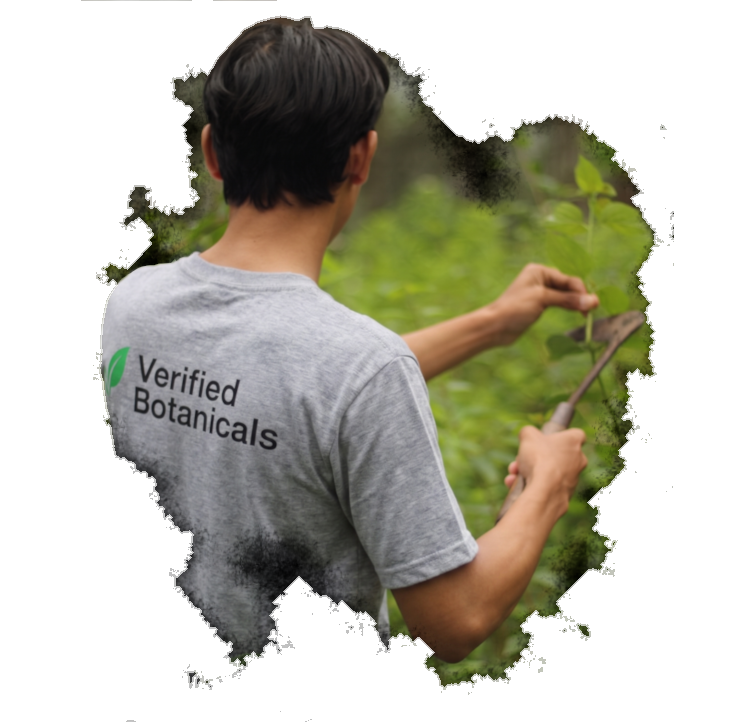
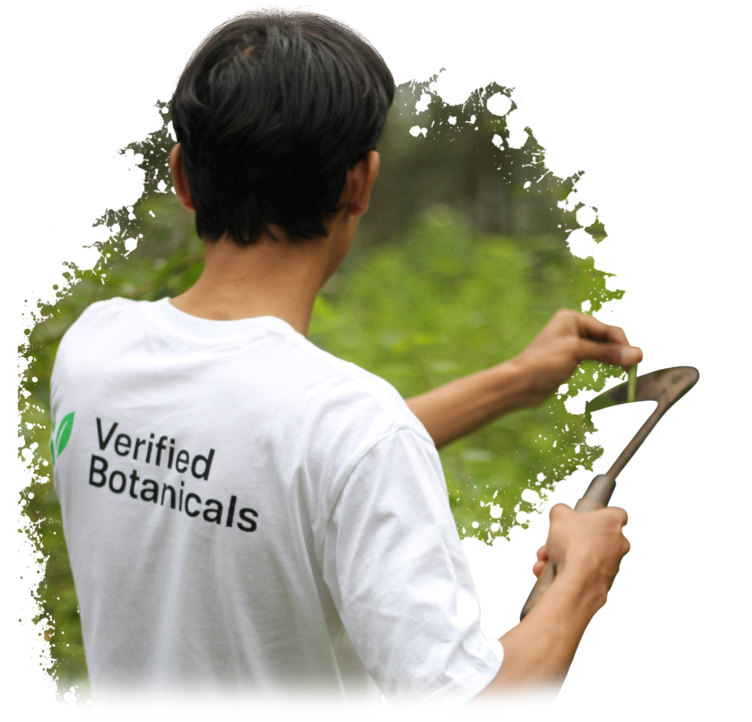
working on the tax calculations and updated the footer

diff --git a/app/code/Local/CanadaTaxSetup/Setup/Patch/Data/UpdateNovaScotiaHstRate20250401.php b/app/code/Local/CanadaTaxSetup/Setup/Patch/Data/UpdateNovaScotiaHstRate20250401.php
@@ -1,0 +1,68 @@
+<?php
+declare(strict_types=1);
+
+namespace Local\CanadaTaxSetup\Setup\Patch\Data;
+
+use Magento\Directory\Model\RegionFactory;
+use Magento\Framework\Setup\ModuleDataSetupInterface;
+use Magento\Framework\Setup\Patch\DataPatchInterface;
+
+class UpdateNovaScotiaHstRate20250401 implements DataPatchInterface
+{
+    private const TARGET_REGION_CODE = 'NS';
+    private const NEW_RATE = 14.0000;
+
+    public function __construct(
+        private readonly ModuleDataSetupInterface $moduleDataSetup,
+        private readonly RegionFactory $regionFactory
+    ) {
+    }
+
+    public function apply(): void
+    {
+        $connection = $this->moduleDataSetup->getConnection();
+        $connection->startSetup();
+
+        try {
+            $region = $this->regionFactory->create();
+            $region->loadByCode(self::TARGET_REGION_CODE, 'CA');
+            $regionId = (int)$region->getRegionId();
+            if ($regionId <= 0) {
+                throw new \RuntimeException('Unable to resolve CA region_id for Nova Scotia (NS)');
+            }
+
+            $table = $this->moduleDataSetup->getTable('tax_calculation_rate');
+
+            $rateIds = $connection->fetchCol(
+                sprintf(
+                    'SELECT tax_calculation_rate_id FROM %s WHERE tax_country_id = ? AND tax_region_id = ? AND tax_postcode = ?',
+                    $table
+                ),
+                ['CA', $regionId, '*']
+            );
+
+            foreach ($rateIds as $rateId) {
+                $connection->update(
+                    $table,
+                    ['rate' => self::NEW_RATE],
+                    ['tax_calculation_rate_id = ?' => (int)$rateId]
+                );
+            }
+        } finally {
+            $connection->endSetup();
+        }
+    }
+
+    public static function getDependencies(): array
+    {
+        return [
+            InstallCanadaTaxConfiguration::class,
+        ];
+    }
+
+    public function getAliases(): array
+    {
+        return [];
+    }
+}
+

diff --git a/app/code/Local/RotatingSpecialDeals/Setup/Patch/Data/UpdateFooterShippingHours.php b/app/code/Local/RotatingSpecialDeals/Setup/Patch/Data/UpdateFooterShippingHours.php
@@ -1,0 +1,65 @@
+<?php
+declare(strict_types=1);
+
+namespace Local\RotatingSpecialDeals\Setup\Patch\Data;
+
+use Magento\Framework\Setup\ModuleDataSetupInterface;
+use Magento\Framework\Setup\Patch\DataPatchInterface;
+
+class UpdateFooterShippingHours implements DataPatchInterface
+{
+    public function __construct(
+        private readonly ModuleDataSetupInterface $moduleDataSetup
+    ) {
+    }
+
+    public function apply(): void
+    {
+        $connection = $this->moduleDataSetup->getConnection();
+        $connection->startSetup();
+
+        try {
+            $cmsBlockTable = $this->moduleDataSetup->getTable('cms_block');
+
+            $connection->query(
+                sprintf(
+                    'UPDATE %s SET content = REPLACE(content, ?, ?) WHERE identifier = ?',
+                    $cmsBlockTable
+                ),
+                [
+                    '{{trans "Working Hours"}}',
+                    '{{trans "Shipping Hours"}}',
+                    'footer-29-content',
+                ]
+            );
+
+            $saturdayLine = '&lt;li&gt;&lt;a href="#"&gt;{{trans "Saturday - Sunday   (Closed)"}}&lt;/a&gt;&lt;/li&gt;';
+            $easternLine = "\n" . '&lt;li&gt;&lt;a href="#"&gt;{{trans "(Eastern Time Zone)"}}&lt;/a&gt;&lt;/li&gt;';
+
+            $connection->query(
+                sprintf(
+                    'UPDATE %s SET content = REPLACE(content, ?, ?) WHERE identifier = ? AND content NOT LIKE ?',
+                    $cmsBlockTable
+                ),
+                [
+                    $saturdayLine,
+                    $saturdayLine . $easternLine,
+                    'footer-29-content',
+                    '%Eastern Time Zone%',
+                ]
+            );
+        } finally {
+            $connection->endSetup();
+        }
+    }
+
+    public static function getDependencies(): array
+    {
+        return [];
+    }
+
+    public function getAliases(): array
+    {
+        return [];
+    }
+}

diff --git a/dev/tools/check_tax_rate_nova_scotia.php b/dev/tools/check_tax_rate_nova_scotia.php
@@ -1,0 +1,45 @@
+<?php
+
+declare(strict_types=1);
+
+use Magento\Directory\Model\RegionFactory;
+use Magento\Framework\App\Bootstrap;
+use Magento\Framework\App\ResourceConnection;
+
+require __DIR__ . '/../../app/bootstrap.php';
+
+$bootstrap = Bootstrap::create(BP, $_SERVER);
+$objectManager = $bootstrap->getObjectManager();
+
+/** @var RegionFactory $regionFactory */
+$regionFactory = $objectManager->get(RegionFactory::class);
+
+$region = $regionFactory->create();
+$region->loadByCode('NS', 'CA');
+$regionId = (int)$region->getRegionId();
+if ($regionId <= 0) {
+    fwrite(STDERR, "Unable to resolve CA region_id for Nova Scotia (NS)\n");
+    exit(2);
+}
+
+/** @var ResourceConnection $resource */
+$resource = $objectManager->get(ResourceConnection::class);
+$connection = $resource->getConnection();
+$table = $resource->getTableName('tax_calculation_rate');
+
+$rows = $connection->fetchAll(
+    sprintf('SELECT tax_calculation_rate_id, code, rate FROM %s WHERE tax_country_id = ? AND tax_region_id = ? AND tax_postcode = ? ORDER BY tax_calculation_rate_id', $table),
+    ['CA', $regionId, '*']
+);
+
+$amount = (float)($argv[1] ?? 22.99);
+
+fwrite(STDOUT, sprintf("Nova Scotia rates (region_id=%d):\n", $regionId));
+foreach ($rows as $row) {
+    $rate = (float)$row['rate'];
+    $tax = $amount * ($rate / 100.0);
+    fwrite(STDOUT, sprintf("- %s: %.4f%% (tax on %.2f => %.2f)\n", (string)$row['code'], $rate, $amount, $tax));
+}
+
+exit(0);
+

diff --git a/app/code/Local/CanadaTaxSetup/Setup/Patch/Data/InstallCanadaTaxConfiguration.php b/app/code/Local/CanadaTaxSetup/Setup/Patch/Data/InstallCanadaTaxConfiguration.php
@@ -303,7 +303,7 @@ class InstallCanadaTaxConfiguration implements DataPatchInterface
             ['code' => 'CA-NB-HST', 'region_code' => 'NB', 'title' => 'HST', 'rate' => 15.0000],
             ['code' => 'CA-NL-HST', 'region_code' => 'NL', 'title' => 'HST', 'rate' => 15.0000],
             ['code' => 'CA-NT-GST', 'region_code' => 'NT', 'title' => 'GST', 'rate' => 5.0000],
-            ['code' => 'CA-NS-HST', 'region_code' => 'NS', 'title' => 'HST', 'rate' => 15.0000],
+            ['code' => 'CA-NS-HST', 'region_code' => 'NS', 'title' => 'HST', 'rate' => 14.0000],
             ['code' => 'CA-NU-GST', 'region_code' => 'NU', 'title' => 'GST', 'rate' => 5.0000],
             ['code' => 'CA-ON-HST', 'region_code' => 'ON', 'title' => 'HST', 'rate' => 13.0000],
             ['code' => 'CA-PE-HST', 'region_code' => 'PE', 'title' => 'HST', 'rate' => 15.0000],
